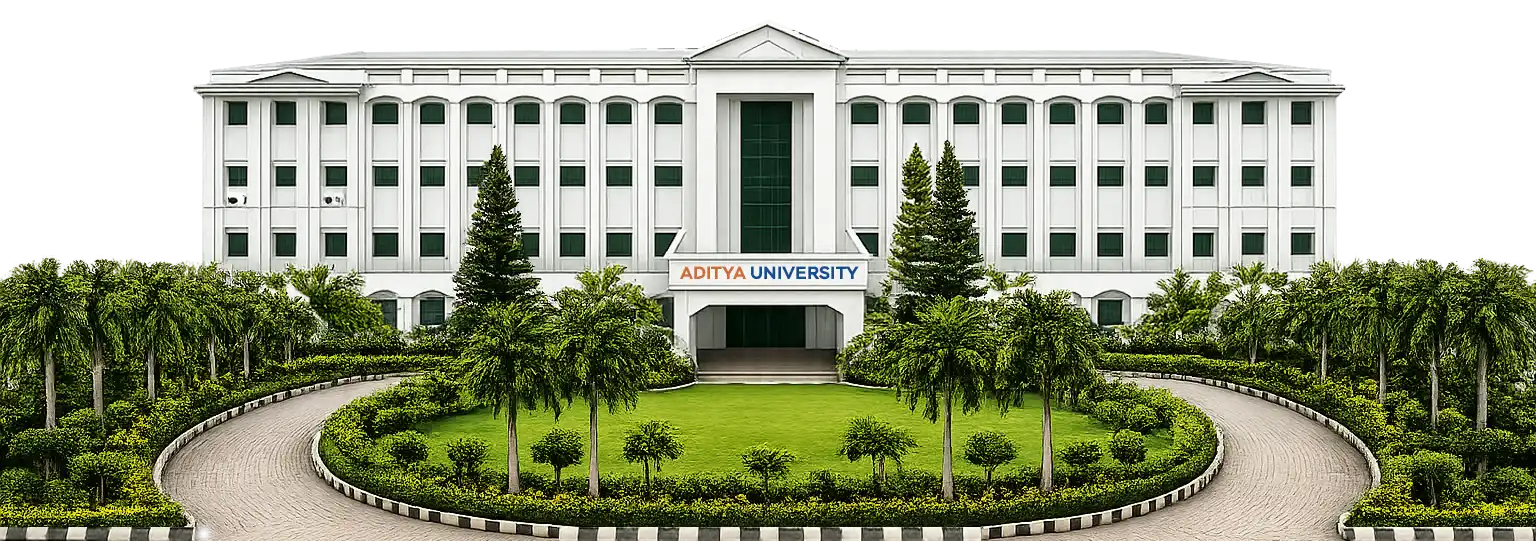
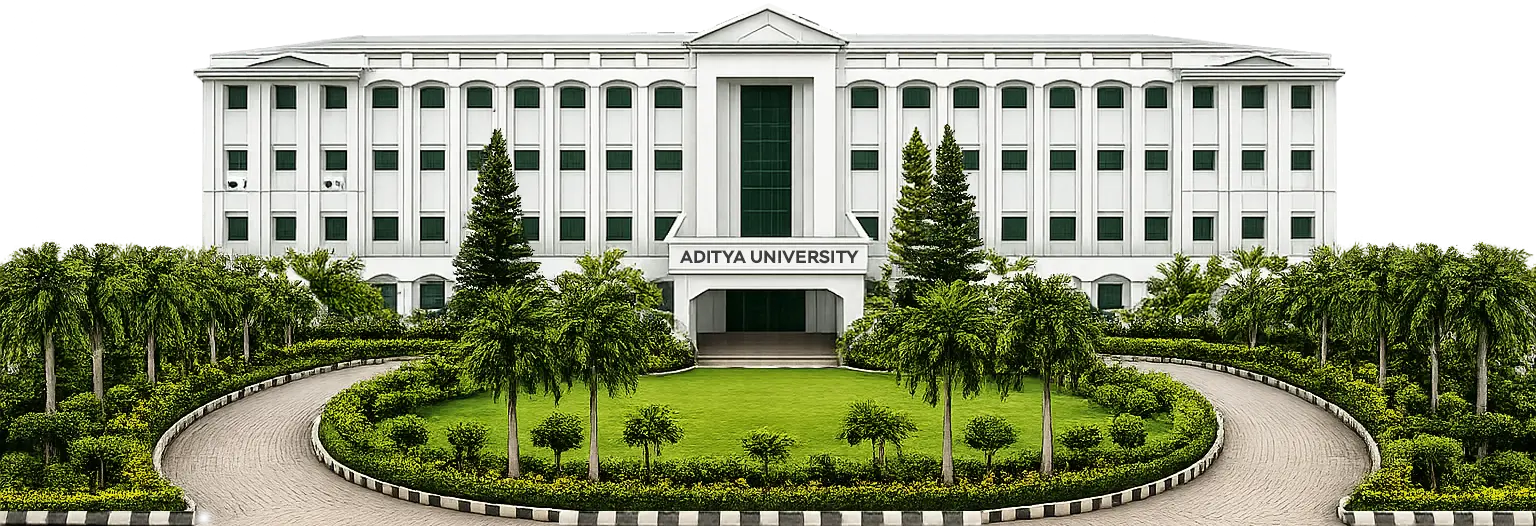
chnages

diff --git a/assets/main.css b/assets/main.css
@@ -160,7 +160,7 @@ body::before {
     background-size: contain, contain;
     background-position: bottom center, bottom center;
     background-repeat: no-repeat, no-repeat;
-    opacity: 0.6;
+    opacity: 0.3;
     z-index: 0;
     pointer-events: none;
 }